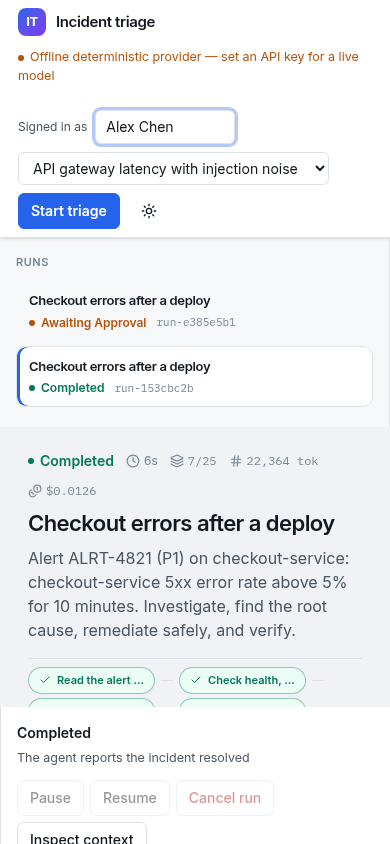
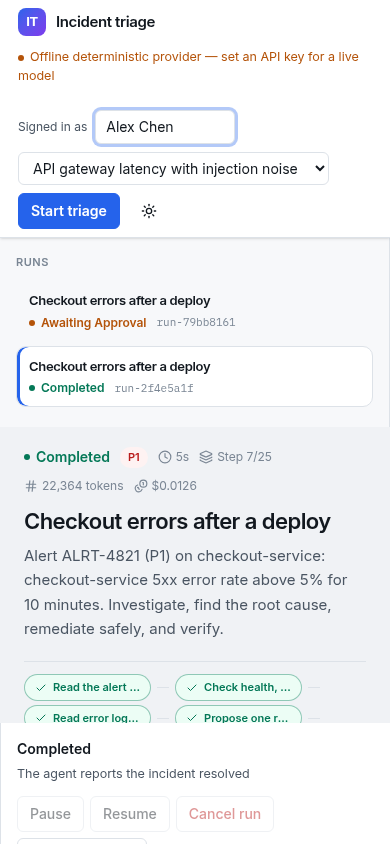
test(docs): assert no raw JSON in UI e2e; refresh screenshots
Playwright checks the timeline for pretty-printed JSON blocks, Vitest
covers DataView/error mapping, and screenshots/DEMO reflect the cleaner UI.

diff --git a/scripts/e2e_ui.py b/scripts/e2e_ui.py
@@ -8,6 +8,7 @@ import sys
 import tempfile
 import time
 from pathlib import Path
+import re
 
 import httpx
 from playwright.sync_api import sync_playwright
@@ -66,9 +67,16 @@ def main() -> int:
             page.wait_for_selector('[data-testid="thinking-indicator"], [data-testid="approval-card"]', timeout=90000)
             page.wait_for_selector('[data-testid="approval-card"]', timeout=120000)
             page.wait_for_selector('[data-testid="tool-card"]', timeout=30000)
-            # expand a tool card
+            # expand a tool card — structured view, no raw JSON dump
             page.locator('[data-testid="tool-card"] button').first.click()
-            page.wait_for_timeout(300)
+            page.wait_for_timeout(400)
+            # Main timeline/run view must not show pretty-printed JSON objects by default
+            body = page.locator('[data-testid="timeline"]').inner_text()
+            # Allow single-line values; forbid multi-line brace blocks typical of JSON dumps
+            if re.search(r"\{\s*\n\s*\"", body):
+                raise RuntimeError("raw JSON object visible in main timeline")
+            # Collapsed technical details should not be open
+            assert page.locator('[data-testid="technical-details"]:visible').count() == 0
             page.click("#apOk")
             page.wait_for_selector(".outcome", timeout=90000)
             browser.close()

diff --git a/README.md b/README.md
@@ -42,7 +42,7 @@ flowchart TD
 
 | Layer | Choice |
 |---|---|
-| Frontend | Vite, React 19, TypeScript, TanStack Query, Zustand, React Router (hash), Tailwind CSS v4, Radix primitives, sonner, lucide-react, react-syntax-highlighter |
+| Frontend | Vite, React 19, TypeScript, TanStack Query, Zustand, React Router (hash), Tailwind CSS v4, Radix primitives, sonner, lucide-react |
 | Backend | FastAPI, LangGraph, SQLAlchemy 2 + Alembic, structlog, Prometheus `/metrics`, OpenTelemetry GenAI spans |
 | LLM | Gemini (default), Anthropic, OpenAI, or offline deterministic provider for CI / local development |
 | Serving | FastAPI mounts `frontend/dist` at `/` in production; Vite proxies `/api` (+ SSE) in development |
@@ -216,7 +216,7 @@ docs/                HARDENING, E2E_RESULTS, DEMO walkthrough, screenshots
 | Error recovery / budgets | Retries, identical-call caps, token/cost budgets |
 | Human-in-the-loop | Durable approval interrupt + audit (`X-Operator`) |
 | Resumable state | LangGraph checkpointer + Store CAS |
-| Live operator UX | React console, SSE timeline, approval card, pause/resume/cancel |
+| Live operator UX | React console with structured tool/result cards (no raw JSON by default), friendly error banners, SSE timeline, approval card, pause/resume/cancel |
 | Observability | structlog, Prometheus, OTel GenAI, optional Langfuse |
 | Reproducible CI | Scripted offline provider, evals, frontend Vitest, Playwright UI |
 

diff --git a/docs/DEMO.md b/docs/DEMO.md
@@ -36,6 +36,6 @@ make frontend
 ## What to watch for in the MP4
 
 - Scenario start navigates to `/#/runs/<id>`
-- Streaming tool cards expand with syntax-highlighted args/output
+- Streaming tool cards expand into readable fields, tables, and badges (raw data stays behind Technical details)
 - Approval card blocks the write until Approve
 - Post-approve continuation finishes with a resolved outcome
